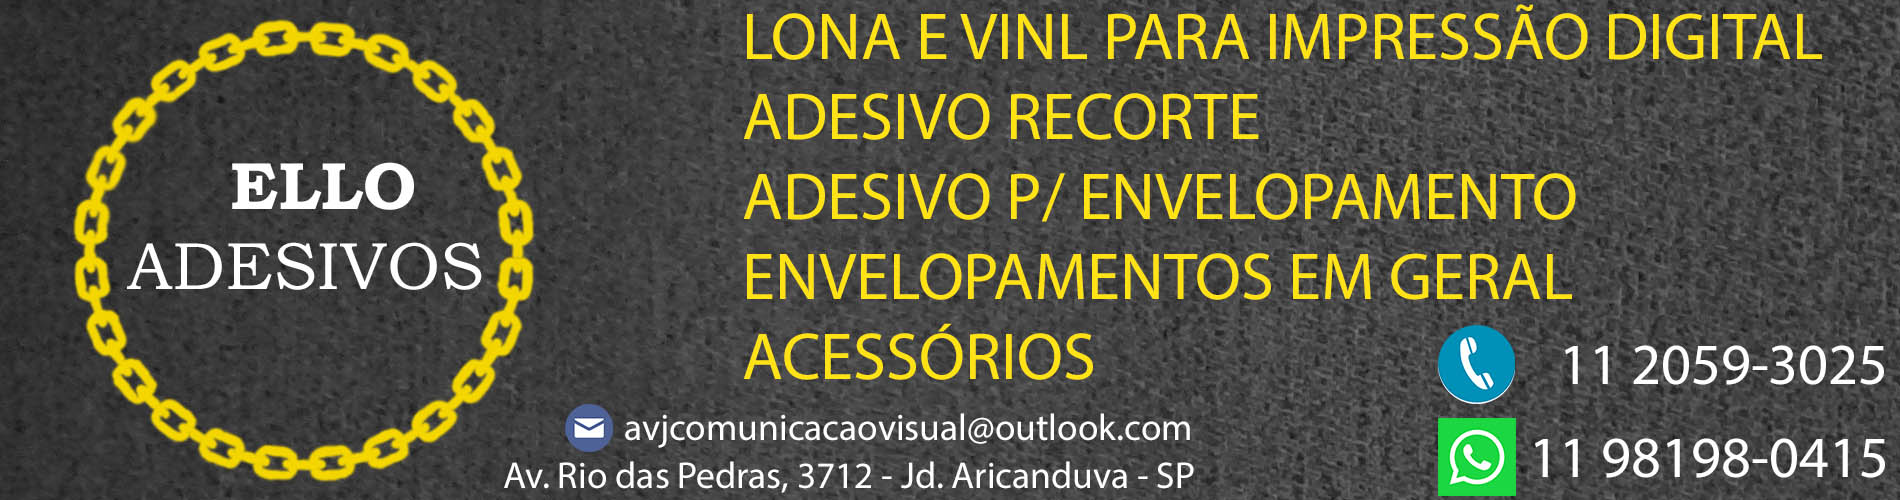
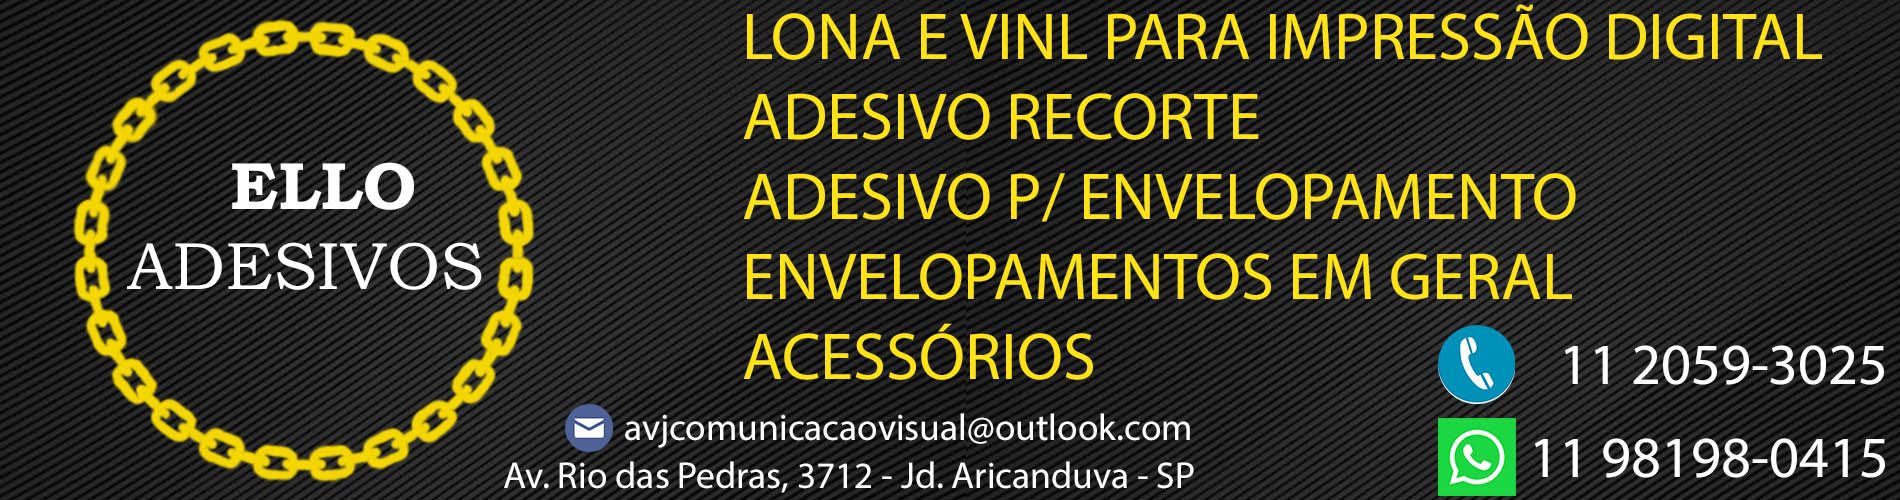
alteração de cor de fundo e ajuste da seta.

diff --git a/css/estilos.css b/css/estilos.css
@@ -4,7 +4,7 @@
     box-sizing: border-box;
 }
 body {
-    background: #515C09;
+    background: linear-gradient(45deg,gray, rgb(250, 250, 102),gray);
     background-size: auto 50vh;
     font-size: 15px;
     font-family: 'Patrick Hand', cursive;
@@ -67,15 +67,12 @@ header{
     color: white;
     text-shadow: 1px 1px 4px black;
 }
-
 .bullets a.active {
     color: turquoise;
 }
 .seta-direita, .seta-esquerda {
-    width: 50px;
-    height: 35px;
     position: relative;
-    margin: -215px 0;
+    margin: 0 10px;
 }
 .seta-esquerda:hover, 
 .seta-direita:hover {
@@ -83,111 +80,139 @@ header{
 }
 /*Se a tela tiver pelo menos 320 pixels vai carregar estes estilos*/
 @media (min-width: 320px ) {
-    body {
-        font-size: 17px;
-    }
-    .menu {
-        width: 100vw;
-        text-align: center;
-    }
-    .menu a {
-        font-size: .6em;
-}
-}
-/*Se a tela tiver pelo menos 760 (tablet) pixels vai carregar estes estilos*/
-@media (min-width: 460px ) {
-    body {
-        font-size: 21px;
-    }
-    .menu {
-        width: 100vw;
-        text-align: center;
-    }
-    .menu a {
-        font-size: .7em;
-}
-}
-/*Se a tela tiver pelo menos 1024 (laptop) pixels vai carregar estes estilos*/
-@media (min-width: 1024px ) {
-    body {
-        font-size: 20px;
-    }
-    .menu a {
-        font-size: 1em;
+body {
+    font-size: 17px;
 }
 .menu {
     width: 100vw;
     text-align: center;
 }
+.menu a {
+    font-size: .6em;
+}
+header{
+    height: 15vh;
+}
+.main-highlight-image{
+    height: 100px;
+    width: 100vw;
+}
+.bullets {
+    font-size: 37px;
+    top: 78px;
+}
+.seta-direita, .seta-esquerda {
+ width: 21px;
+ height: 21px;
+ top: 68px;
+}
+}
+/*Se a tela tiver pelo menos 760 (tablet) pixels vai carregar estes estilos*/
+@media (min-width: 460px ) {
+body {
+    font-size: 21px;
+    }
+.menu {
+    width: 100vw;
+    text-align: center;
+    }
+.menu a {
+    font-size: .7em;
+}
+header{
+    height: 15vh;
+}
+.main-highlight-image{
+    height: 150px;
+    width: 100vw;
+}
+.bullets {
+    font-size: 40px;
+    top: 124px;
+}
+.seta-direita, .seta-esquerda {
+ width: 25px;
+ height: 20px;
+ top: 95px;
+ }
+}
+
+@media (min-width: 880px ) {
+body {
+    font-size: 20px;
+}
+.menu a {
+    font-size: 1em;
+}
+.menu {
+    width: 100vw;
+    text-align: center;
+}
+.main-highlight-image{
+    height: 330px;
+    width: 100vw;
+}
+.bullets {
+    font-size: 40px;
+    top: 292px;
+}
+.seta-direita, .seta-esquerda {
+    width: 40px;
+    height: 25px;
+    top: 190px;
+}
+}
+/*Se a tela tiver pelo menos 1024 (laptop) pixels vai carregar estes estilos*/
+@media (min-width: 1024px ) {
+body {
+    font-size: 20px;
+    }
+.menu a {
+    font-size: 1em;
+}
+.menu {
+    width: 100vw;
+    text-align: center;
+}
+.main-highlight-image{
+    height: 330px;
+    width: 100vw;
+}
+.bullets {
+    font-size: 40px;
+    top: 292px;
+}
+.seta-direita, .seta-esquerda {
+ width: 40px;
+ height: 25px;
+ top: 190px;
+}
 }
 /*Se a tela tiver pelo menos 1440 (tv) pixels vai carregar estes estilos*/
 @media (min-width: 1440px ) {
-    body {
-        font-size: 25px;
-    }
-    .menu a {
-        font-size: 1em;
+body {
+    font-size: 25px;
 }
-
+.menu a {
+    font-size: 1em;
 }
-
-@media (min-width: 320px ) {
-    header{
-        height: 15vh;
-    }
-    .main-highlight-image{
-        height: 100px;
-        width: 100vw;
-    }
-    .bullets {
-        font-size: 37px;
-        top: 78px;
-    }
-    .seta-direita, .seta-esquerda {
-     margin: -65px 0;
-     width: 21px;
-     height: 21px;
-     margin-right: 10px;
-     margin-left: 10px;
-    }
-
+.menu {
+    width: 100vw;
+    text-align: center;
 }
-@media (min-width: 460px ) {
-    header{
-        height: 15vh;
-    }
-    .main-highlight-image{
-        height: 150px;
-        width: 100vw;
-    }
-    .bullets {
-        font-size: 40px;
-        top: 124px;
-    }
-    .seta-direita, .seta-esquerda {
-     margin: -90px 0;
-     width: 25px;
-     height: 20px;
-     margin-right: 10px;
-     margin-left: 10px;
-    }
+.main-highlight-image{
+    height: 330px;
+    width: 100vw;
 }
-@media (min-width: 1024px ) {
-    .main-highlight-image{
-        height: 330px;
-        width: 100vw;
-    }
-    .bullets {
-        font-size: 40px;
-        top: 292px;
-    }
-    .seta-direita, .seta-esquerda {
-     margin: -192px 0;
-     width: 40px;
-     height: 25px;
-     margin-right: 10px;
-     margin-left: 10px;
-    }
+.bullets {
+    font-size: 40px;
+    top: 292px;
+}
+.seta-direita, .seta-esquerda {
+ width: 40px;
+ height: 25px;
+ top: 190px;
+}
 }
 /*
 .site-subtitle {
